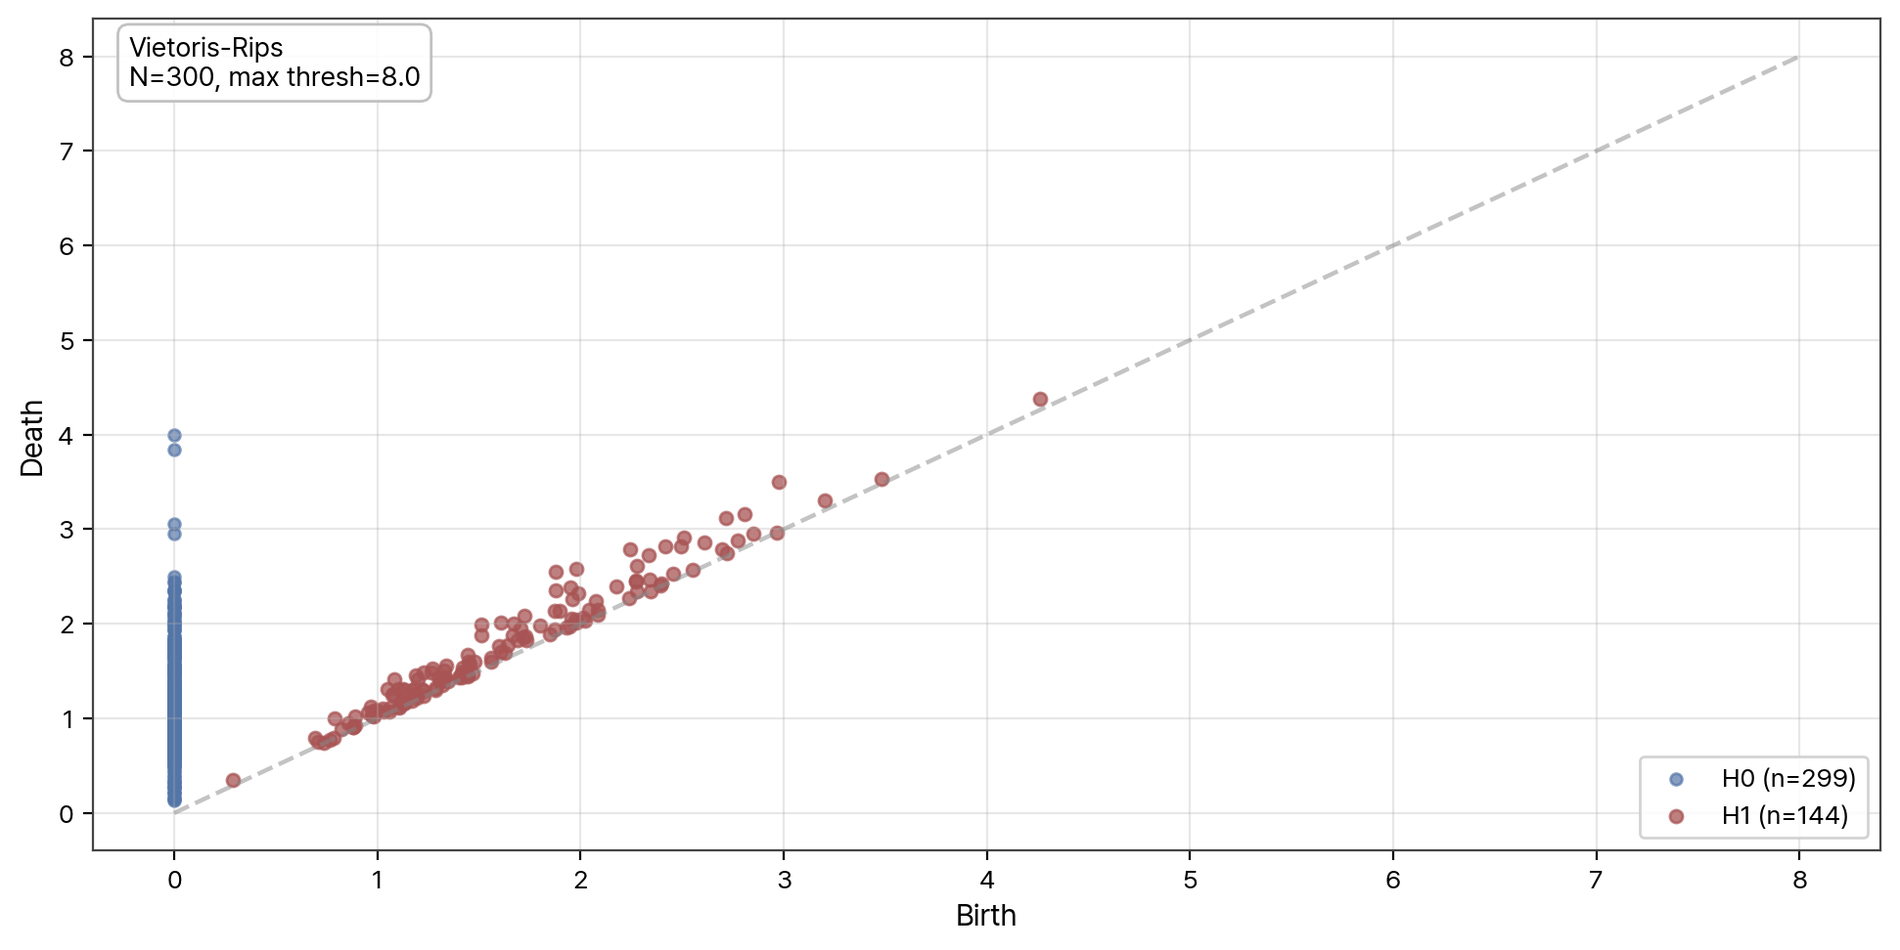
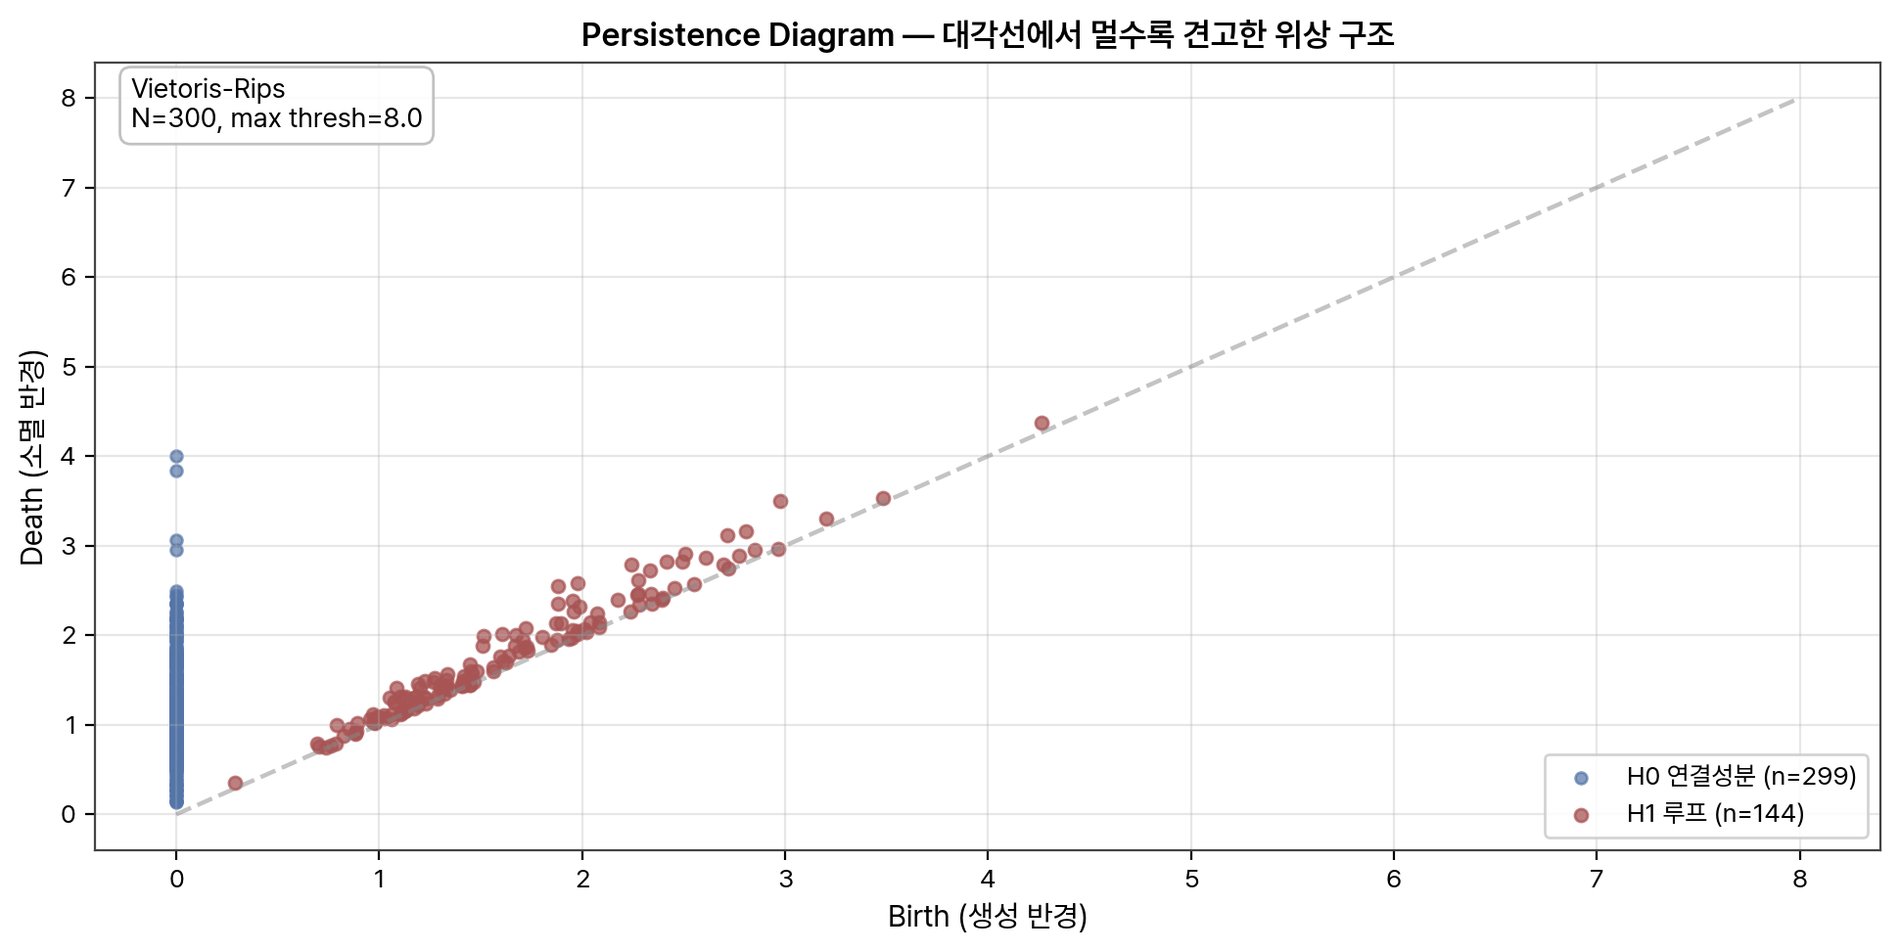
차트 텍스트 직관화 2차 — 제목 추가 + TDA/STL 라벨 한글화
- h4_mapper(amp/cluster): 제목 추가, 컬러바 amp_12m_norm→"12개월 주기 진폭(정규화)", 주석 한글화
- h9_pd: 제목 추가, Birth/Death→"생성/소멸 반경", H0/H1→"연결성분/루프"
- h9_barcode: 제목 추가, filtration scale→"필트레이션 척도", loop rank→"루프 순위"
- h24_stl_bars: 막대 가리던 주석 박스 → 플롯 상단 밖으로 이동

diff --git a/scripts/figures/redo_fig03_persistence.py b/scripts/figures/redo_fig03_persistence.py
@@ -80,15 +80,16 @@ h1 = ph[(ph['dim'] == 1) & ph['death'].apply(is_finite)]
 # ── 3A: Persistence Diagram
 fig, ax = plt.subplots(figsize=(9.84, 5))
 ax.scatter(h0['birth'], h0['death'], s=18, c='#5475a8',
-           label=f'H0 (n={len(h0)})', alpha=0.7)
+           label=f'H0 연결성분 (n={len(h0)})', alpha=0.7)
 ax.scatter(h1['birth'], h1['death'], s=22, c='#a85454',
-           label=f'H1 (n={len(h1)})', alpha=0.75)
+           label=f'H1 루프 (n={len(h1)})', alpha=0.75)
 m = max(h0['death'].max() if len(h0) else 0,
         h1['death'].max() if len(h1) else 0, 8.0)
 ax.plot([0, m], [0, m], '--', color='#888', alpha=0.5)
-ax.set_xlabel('Birth')
-ax.set_ylabel('Death')
+ax.set_xlabel('Birth (생성 반경)')
+ax.set_ylabel('Death (소멸 반경)')
 ax.legend(loc='lower right')
+ax.set_title('Persistence Diagram — 대각선에서 멀수록 견고한 위상 구조', fontsize=12)
 ax.grid(alpha=0.3)
 ax.text(0.02, 0.98, 'Vietoris-Rips\nN=300, max thresh=8.0',
         transform=ax.transAxes, va='top', fontsize=10,
@@ -106,15 +107,16 @@ for i in range(n_top):
              float(h1_sorted.iloc[i]['death'])],
             [i, i], lw=2.3, color='#a85454', alpha=0.85)
 ax.set_yticks([0, n_top // 2, n_top - 1])
-ax.set_xlabel('filtration scale')
-ax.set_ylabel('loop rank')
+ax.set_xlabel('필트레이션 척도 (거리 임계값)')
+ax.set_ylabel('루프 순위 (지속성 내림차순)')
 ax.text(0.02, 0.96,
-        f'top {n_top} loops · '
-        f'max persist = {float(h1_sorted.iloc[0]["persistence"]):.3f}',
+        f'상위 {n_top}개 루프 · '
+        f'최대 지속성 = {float(h1_sorted.iloc[0]["persistence"]):.3f}',
         transform=ax.transAxes, va='top', fontsize=10,
         bbox=dict(boxstyle='round,pad=0.4', fc='white',
                   ec='#bbb', alpha=0.9))
 ax.grid(alpha=0.3, axis='x')
+ax.set_title('H1 바코드 — 상위 30개 루프의 생애 구간 (길수록 견고한 순환 구조)', fontsize=12)
 plt.tight_layout()
 save_resize(fig, 'h9_barcode.png')
 

diff --git a/scripts/figures/redo_fig02_mapper.py b/scripts/figures/redo_fig02_mapper.py
@@ -113,15 +113,16 @@ sc = nx.draw_networkx_nodes(
 )
 ax.set_xlim(XLIM); ax.set_ylim(YLIM)
 ax.axis('off')
-fig.colorbar(sc, ax=ax, label='amp_12m_norm', shrink=0.75)
+fig.colorbar(sc, ax=ax, label='12개월 주기 진폭 (정규화)', shrink=0.75)
 ax.text(
     0.02, 0.98,
-    f'{G.number_of_nodes()} nodes · {G.number_of_edges()} edges\n'
-    f'components = {n_comp} · loops = {n_loops}',
+    f'{G.number_of_nodes()} 노드 · {G.number_of_edges()} 엣지\n'
+    f'연결성분 = {n_comp} · 루프 = {n_loops}',
     transform=ax.transAxes, va='top', fontsize=11,
     bbox=dict(boxstyle='round,pad=0.4', fc='white',
               ec='#bbb', alpha=0.9),
 )
+ax.set_title('Mapper 그래프 — 노드 색: 12개월 주기 집행 진폭', fontsize=12)
 plt.tight_layout()
 save_resize(fig, 'h4_mapper_amp.png')
 
@@ -166,6 +167,7 @@ ax.text(
     bbox=dict(boxstyle='round,pad=0.4', fc='white',
               ec='#bbb', alpha=0.9),
 )
+ax.set_title('Mapper 그래프 — 노드 색: HDBSCAN 사업원형', fontsize=12)
 plt.tight_layout()
 save_resize(fig, 'h4_mapper_cluster.png')
 

diff --git a/scripts/figures/redo_fig09_stl.py b/scripts/figures/redo_fig09_stl.py
@@ -86,13 +86,11 @@ ax.axvline(0, color='black', lw=1.0, zorder=3)
 ax.set_xlabel('1차 차분 상관 (게임화 ↔ outcome)')
 ax.legend(loc='lower right', fontsize=13)
 ax.grid(alpha=0.3, axis='x')
-ax.text(0.02, 0.97,
-        f'분홍 행 + 빨간 분야명 = 부호 반전\n'
-        f'(FFT·STL이 서로 다른 부호)  '
+ax.text(0.0, 1.02,
+        f'분홍 행 + 빨간 분야명 = 부호 반전 (FFT·STL 부호 상이) · '
         f'{int(df["sign_change"].sum())}/{len(df)}분야',
-        transform=ax.transAxes, va='top', fontsize=13,
-        bbox=dict(boxstyle='round,pad=0.4', fc='white',
-                  ec='#bbb', alpha=0.92))
+        transform=ax.transAxes, va='bottom', ha='left', fontsize=11,
+        color='#555')
 plt.tight_layout()
 save_resize(fig, 'h24_stl_bars.png')
 
